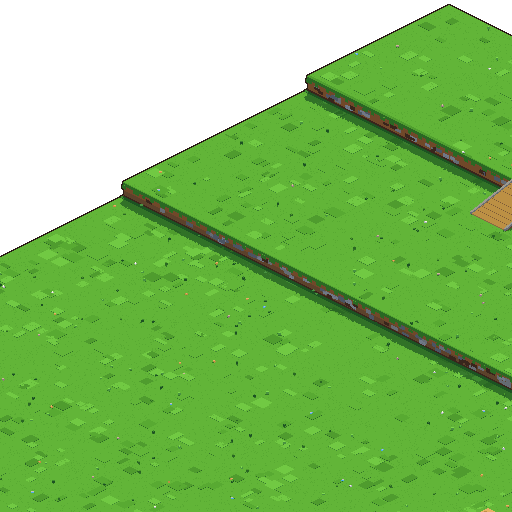
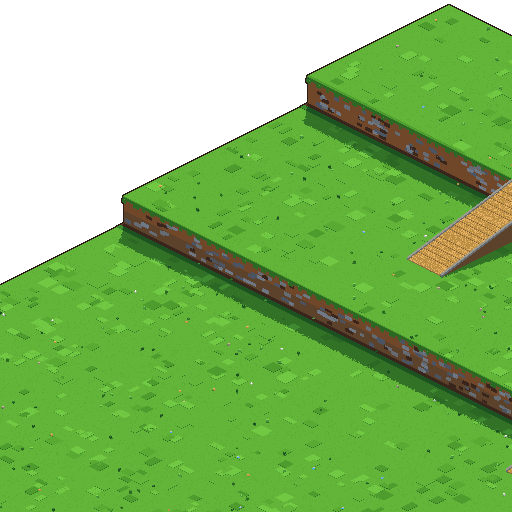
Town step 4: taller cliffs (LEVEL_H 28)
LEVEL_H 14 -> 28 (user decision 2026-11-08). Ramps lengthened to 160 units
along their dir so the slope is unchanged; two trees moved out of the
wider hidden strip west of the NE hill. Terrain art rebuilt; terrain.json
now records levelH and art-output checks it against TownMap.LEVEL_H.
town-perf walk starts just below the lengthened orchard ramp.

Claude-Session: https://claude.ai/code/session_01PNVRsGpaL8ajqgKm3RZjXP

diff --git a/public/town-render.js b/public/town-render.js
@@ -11,7 +11,7 @@
   const MIN_W = 900, MIN_H = 560; // css px of map that must stay in view
   const CHAR_CAP = 128; // soft cap on cached character textures; own agents and friends share it, and lruEvict never drops one on screen
   const FEET = [9, 25]; // OfficeSprites pixel under the feet (same as office-world drawPerson)
-  let O = [961, 33]; // terrain.json originPx; mount() replaces it with the loaded value
+  let O = [961, 61]; // terrain.json originPx; mount() replaces it with the loaded value
 
   const project = (x, y, z) => [O[0] + K * (x - y), O[1] + K2 * (x + y) - z];
   // Inverse of project at z = 0: terrain px -> world units.

diff --git a/public/town-map.js b/public/town-map.js
@@ -13,7 +13,7 @@
   const ov = (a, b) => a[0] < b[2] && a[2] > b[0] && a[1] < b[3] && a[3] > b[1];
 
   // Land levels (town step 4): terraces raise the ground by LEVEL_H world units per level; ramps climb linearly along dir.
-  const LEVEL_H = 14, RAMP_DIRS = ['n', 'e', 's', 'w'];
+  const LEVEL_H = 28, RAMP_DIRS = ['n', 'e', 's', 'w'];
   const area = r => (r[2] - r[0]) * (r[3] - r[1]);
   // The level of the innermost (smallest) terrace rect holding p, 0 outside them all; ramps are ignored.
   function levelAt(d, x, y) {

diff --git a/art/blender/town_terrain.py b/art/blender/town_terrain.py
@@ -15,8 +15,9 @@ PLAZA, PATHS, WATER, BRIDGES = U(town['plaza']), [U(p) for p in town['paths']], 
 inside = lambda x, y, r, m=0: r[0] - m <= x <= r[2] + m and r[1] - m <= y <= r[3] + m
 STONE = ['#9a948c', '#7f7a74', '#a39f99']
 
-# ---- land levels: the same rules as TownMap.heightAt (LEVEL_H = 14 world units = 1.4 here) ----
-LH = 1.4
+# ---- land levels: the same rules as TownMap.heightAt (LEVEL_H = 28 world units = 2.8 here; user decision 2026-11-08) ----
+LH = 2.8
+SH = LH / 1.4  # the contact shadow and face stones scale with the cliff height (tuned at LH 1.4)
 LEVELS = [(U(t['rect']), t['level']) for t in town.get('levels', [])]
 RAMPS = [(U(r['rect']), r['dir']) for r in town.get('ramps', [])]
 _in = lambda x, y, r: r[0] <= x < r[2] and r[1] <= y < r[3]
@@ -82,18 +83,18 @@ for r, lv in sorted(LEVELS, key=lambda t: t[1]):
         if y1 >= D: continue
         box(a, y1 - 0.2, H - 0.3, b - a, 0.35, 0.3, '#4f8f35')  # a thin grass lip, so the soil face shows
         z0 = base(a, y1 + .1)  # contact shadow on the low ground at the cliff foot, so the step reads as height
-        box(a, y1, z0 + 0.04, b - a + 0.5, 0.55, 0.02, '#3f7a2c'); box(a, y1, z0 + 0.05, b - a + 0.25, 0.22, 0.02, '#5a3a28')
+        box(a, y1, z0 + 0.04, b - a + 0.55 * SH, 0.55 * SH, 0.02, '#3f7a2c'); box(a, y1, z0 + 0.05, b - a + 0.22 * SH, 0.22 * SH, 0.02, '#5a3a28')
         for i in range(int((b - a) / 1.3)): box(a + i * 1.3 + rnd.uniform(0, .3), y1 + 0.15, H - 0.55, rnd.uniform(.3, .7), 0.1, rnd.uniform(.2, .35), '#4f8f35')
-        for _ in range(int((b - a) * 1.2)):
+        for _ in range(int((b - a) * 1.2 * SH)):
             z0 = base(rnd.uniform(a, b), y1 + .1)
             if H - z0 > 1.2: box(rnd.uniform(a, b - .8), y1, rnd.uniform(z0 + .1, H - .8), rnd.uniform(.5, 1.0), 0.1, rnd.uniform(.2, .35), rnd.choice(STONE + ['#5a3a28']))
     for (a, b) in spans(y0, y1, [(n[1], n[3]) for n in notches]):  # east (+x) face
         if x1 >= W: continue
         box(x1 - 0.2, a, H - 0.3, 0.35, b - a, 0.3, '#4f8f35')
         z0 = base(x1 + .1, a)
-        box(x1, a, z0 + 0.04, 0.55, b - a, 0.02, '#3f7a2c'); box(x1, a, z0 + 0.05, 0.22, b - a, 0.02, '#5a3a28')
+        box(x1, a, z0 + 0.04, 0.55 * SH, b - a, 0.02, '#3f7a2c'); box(x1, a, z0 + 0.05, 0.22 * SH, b - a, 0.02, '#5a3a28')
         for i in range(int((b - a) / 1.3)): box(x1 + 0.15, a + i * 1.3 + rnd.uniform(0, .3), H - 0.55, 0.1, rnd.uniform(.3, .7), rnd.uniform(.2, .35), '#4f8f35')
-        for _ in range(int((b - a) * 1.2)):
+        for _ in range(int((b - a) * 1.2 * SH)):
             z0 = base(x1 + .1, rnd.uniform(a, b))
             if H - z0 > 1.2: box(x1, rnd.uniform(a, b - .8), rnd.uniform(z0 + .1, H - .8), 0.1, rnd.uniform(.5, 1.0), rnd.uniform(.2, .35), rnd.choice(STONE + ['#5a3a28']))
 
@@ -179,5 +180,5 @@ kit.render(os.path.join(out, 'terrain.png'))
 # levelsHash: art-output.test checks it against town.json, so editing levels or ramps without rerunning the art fails a test
 import hashlib
 sig = ';'.join(','.join(str(v) for v in t['rect']) + ':' + str(t['level']) for t in town.get('levels', [])) + '|' + ';'.join(','.join(str(v) for v in r['rect']) + ':' + r['dir'] for r in town.get('ramps', []))
-json.dump({'originPx': [ox, oy], 'levelsHash': hashlib.sha256(sig.encode()).hexdigest()[:16]}, open(os.path.join(out, 'terrain.json'), 'w', newline='\n'))
+json.dump({'originPx': [ox, oy], 'levelsHash': hashlib.sha256(sig.encode()).hexdigest()[:16], 'levelH': round(LH * 10)}, open(os.path.join(out, 'terrain.json'), 'w', newline='\n'))
 print('TERRAIN', w, h, ox, oy)

diff --git a/art/post.py b/art/post.py
@@ -142,7 +142,7 @@ def build(raw, out, office_out=None):
         for c in range(cols_n):
             ch = tp.crop((c * CHUNK, r * CHUNK, min(TW, (c + 1) * CHUNK), min(TH, (r + 1) * CHUNK))); ch.info['transparency'] = ncols
             save_p(ch, os.path.join(out, 'terrain', f'r{r}c{c}.png'))
-    json.dump({'originPx': tmeta['originPx'], 'levelsHash': tmeta.get('levelsHash', ''), 'chunk': CHUNK, 'cols': cols_n, 'rows': rows_n, 'size': [TW, TH]}, open(os.path.join(out, 'terrain.json'), 'w', newline='\n'), indent=1)
+    json.dump({'originPx': tmeta['originPx'], 'levelsHash': tmeta.get('levelsHash', ''), 'levelH': tmeta.get('levelH', 0), 'chunk': CHUNK, 'cols': cols_n, 'rows': rows_n, 'size': [TW, TH]}, open(os.path.join(out, 'terrain.json'), 'w', newline='\n'), indent=1)
     print(f'palette {ncols} colours; atlas {W}x{H}; terrain {TW}x{TH} in {cols_n}x{rows_n} chunks')
     if office_out: build_office(load(os.path.join(raw, 'office')), office_out)
 

diff --git a/docs/perf/town-step4.md b/docs/perf/town-step4.md
@@ -3,7 +3,7 @@
 Live checks run in Electron with a temp profile; none of them is part of `npm test`. Each prints ALL PASSED or exits 1.
 
 - `perf/office-perf.cjs` (port 4794) now runs per graphics preset (Low, High), set with `Graphics.save` on the temp profile. For each preset it measures office idle CPU and frames, the 'work' scene draw p95 and renderer private memory. Then come 20 town <-> office cycles on High. The cycle budget is now the spec's measure: the JS heap (`performance.memory.usedJSHeapSize` after `gc()`) of every cycle stays within +-10% of cycle 1. Renderer private bytes stay reported, and over cycles 11-20 they must rise no more than 3%. That rise is the least-squares fit over those ten cycles, as a share of the fitted value at cycle 11, so one noisy sample cannot decide it. The harness also checks that the town page is not kept in the back/forward cache.
-- `perf/town-perf.cjs` (port 4799) runs per preset: Low (Canvas2D, ambient off) and High (GPU, ambient at its fps cap). The walk starts at the foot of the ramp at x 620-680, climbs it onto the NW orchard terrace and comes back down, twice. It must reach terrace height (14).
+- `perf/town-perf.cjs` (port 4799) runs per preset: Low (Canvas2D, ambient off) and High (GPU, ambient at its fps cap). The walk starts at the foot of the ramp at x 620-680, climbs it onto the NW orchard terrace and comes back down, twice. It must reach terrace height (`TownMap.LEVEL_H`: 14 in Task 10, 28 since Task 9b).
 - `perf/scene-check.cjs` "town idle renders nothing" and `perf/travel-check.cjs` "town idle after the travellers left" are pinned to Low (ambient off), as `perf/town-check.cjs` already was. travel-check adds two checks on High: the ambient layer runs at its `ambientFps` cap while visible, and stops while hidden.
 
 Machine: as in `town-step2.md` (AMD Ryzen 7 4800H, RTX 3050 Laptop GPU, 23.4 GB, Windows 11), now Electron 43.8.7. It is a shared laptop with other apps running. The default power saver is on, so High's ambient cap is 8 fps.
@@ -34,6 +34,20 @@ Machine: as in `town-step2.md` (AMD Ryzen 7 4800H, RTX 3050 Laptop GPU, 23.4 GB,
 The interiors pair (20 town <-> karinderya + game hall cycles) is reported, not budgeted. Its JS heap is flat (7.03 MB, worst 0.0% and 0.1%). Its private bytes plateau measured -1.9% and 3.5%.
 
 The plateau budget passes, but only just: 2.9% and 2.8% against 3%. A slow creep of about 0.2 MB per cycle is still there; see finding 4.
+
+## Taller cliffs (Task 9b, `LEVEL_H` 14 -> 28)
+
+One `perf/town-perf.cjs` run after the cliffs were doubled in height and the ramps lengthened. The orchard ramp is now `[620,380,680,540]`, so the walk starts just below it at (650, 548) instead of (650, 585). The hold time is unchanged (1.25 s, about 212 units), and the walk must reach terrace height, now 28.
+
+| Measure | Taller cliffs (one run) | Budget |
+|---|---|---|
+| Low: town idle CPU / frames in 10 s | 0.00% / 0 | < 1% / 0 |
+| High: town idle CPU (ambient at 8 fps) | 0.40% | < 3% |
+| Low / High: town hidden frames / CPU | 0 / 0; 0.02 / 0.02% | 0; < 0.5% |
+| Low: town walk up a ramp onto a terrace, draw p95 | 0.3 ms (593 frames, highest ground 28) | < 16 ms |
+| High: town walk up a ramp onto a terrace, draw p95 | 1.4 ms (602 frames, highest ground 28) | < 8 ms |
+| Low / High: town renderer private | 62.6 / 60.8 MB | < 180 / < 250 MB |
+| Low / High: `stats().textureBytes` | 18.9 / 18.9 MB | < 48 / < 96 MB |
 
 ## Step 1 findings (diagnosis, before any fix)
 

diff --git a/docs/superpowers/specs/2026-11-06-town-world-design.md b/docs/superpowers/specs/2026-11-06-town-world-design.md
@@ -132,6 +132,10 @@ inside.
   cozy palette and outline, drawn once per look into a cache, and uploaded as textures.
 - **Ground:** terrain tiles (grass, paving, path, water edge, soil sides) are an atlas of isometric tiles, with
   variants to break repetition.
+- **Land levels** (town step 4, approved 2026-11-08): the town exterior has raised terraces with soil cliffs and
+  ramps; interiors stay flat. Each level raises the ground by `LEVEL_H = 28` world units (the user's decision of
+  2026-11-08: "raise the cliffs, make them taller"; it was 14, which read as a thin hedge at default zoom). Ramps keep
+  about 160 units of run per level so the climb stays gentle.
 
 ## 8. Rendering and performance
 

diff --git a/docs/superpowers/plans/2026-11-08-town-step4-graphics.md b/docs/superpowers/plans/2026-11-08-town-step4-graphics.md
@@ -403,7 +403,7 @@ The user approved this on 2026-11-08: "you are also allowed to create different 
     - every terrace is reachable (reuse the existing reachability check).
   - `grid(d)`: cells on a level boundary (a cliff edge band 1 cell wide) are blocked, except the cells inside a ramp. This is the same mechanism as water vs bridges.
   - Add `heightAt(d, x, y) -> z`:
-    - `LEVEL_H = 14` world units per level;
+    - `LEVEL_H = 28` world units per level (the user's decision of 2026-11-08, Task 9b; Task 9 shipped 14, which read as a thin hedge at default zoom);
     - on a ramp, linear along `dir`;
     - elsewhere, the level of the innermost containing rect;
     - 0 outside all of them.
